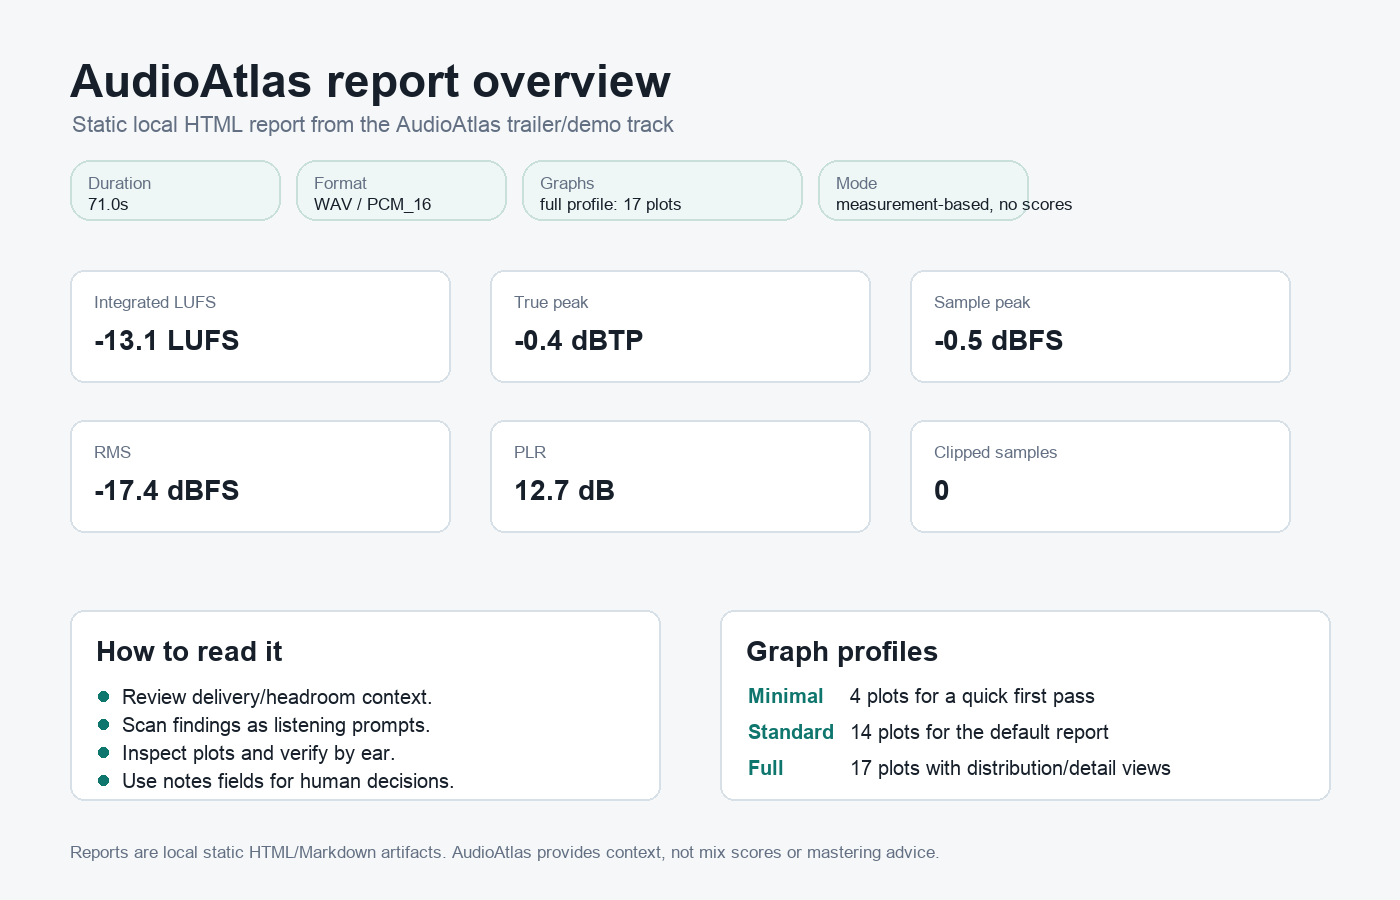
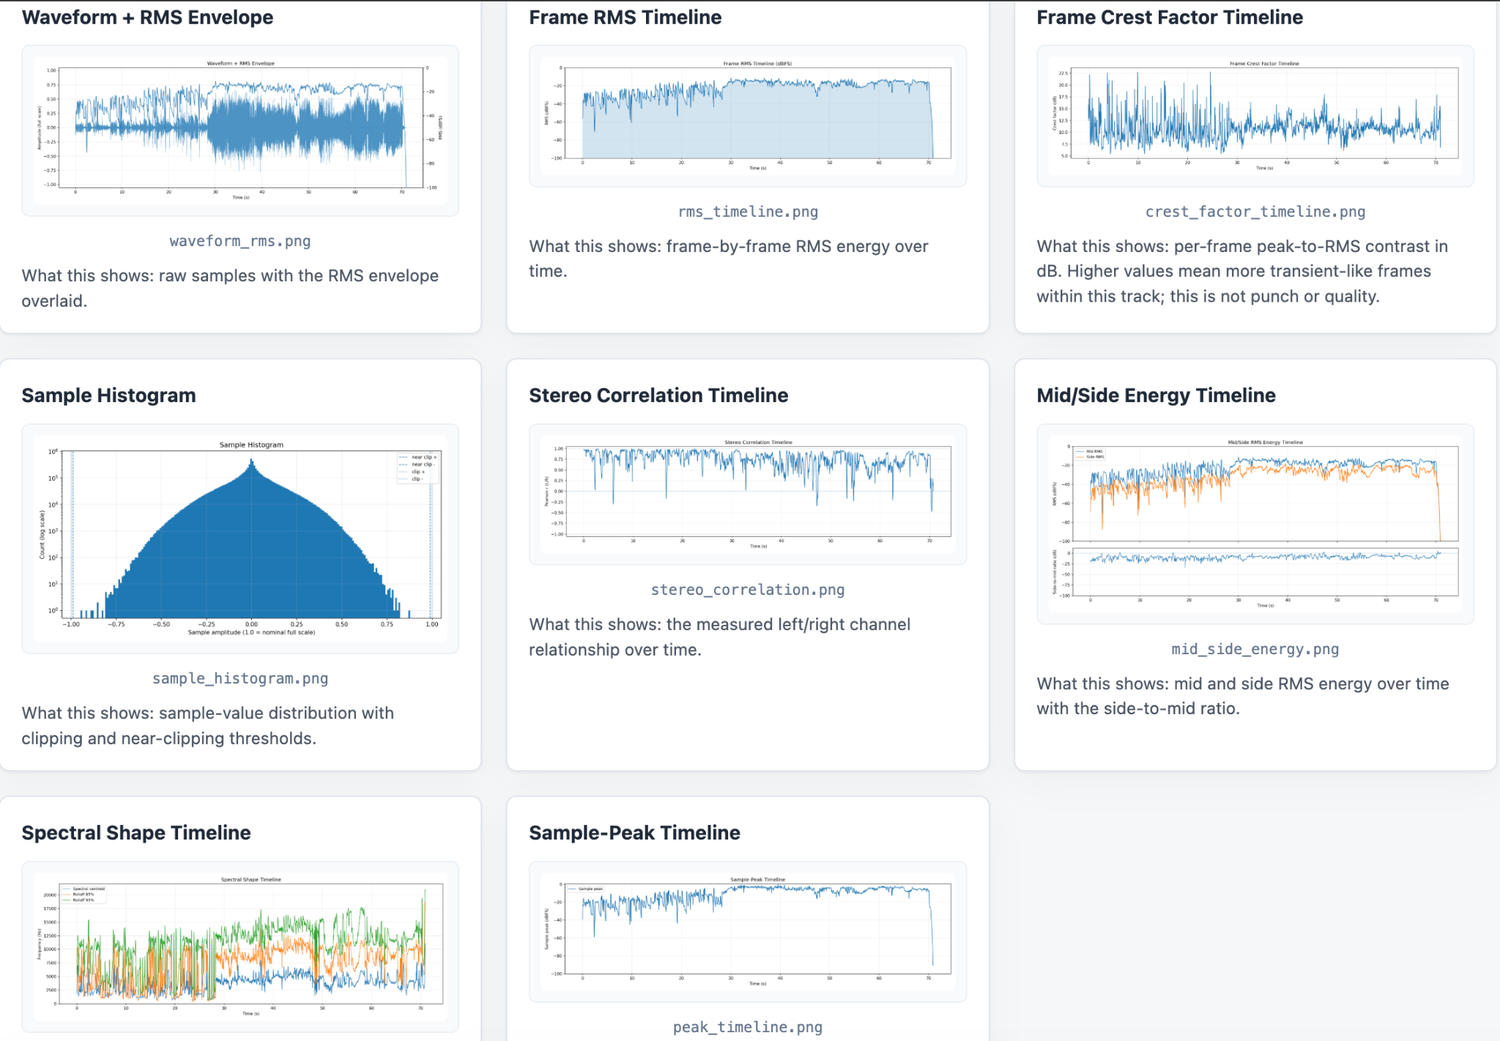
Polish README report screenshots

diff --git a/README.md b/README.md
@@ -40,7 +40,7 @@ AudioAtlas writes local static HTML/Markdown reports plus JSON summaries and PNG
 plots. The generated files can be opened directly from disk; they do not require
 a server or hosted dashboard.
 
-![AudioAtlas report overview](docs/assets/readme/report_overview.png)
+![AudioAtlas multi-graph report cards](docs/assets/readme/report_overview.png)
 
 Graph depth is selectable: minimal renders 4 plots for a quick pass, standard
 renders the default 14-plot report, and full renders 17 plots with additional